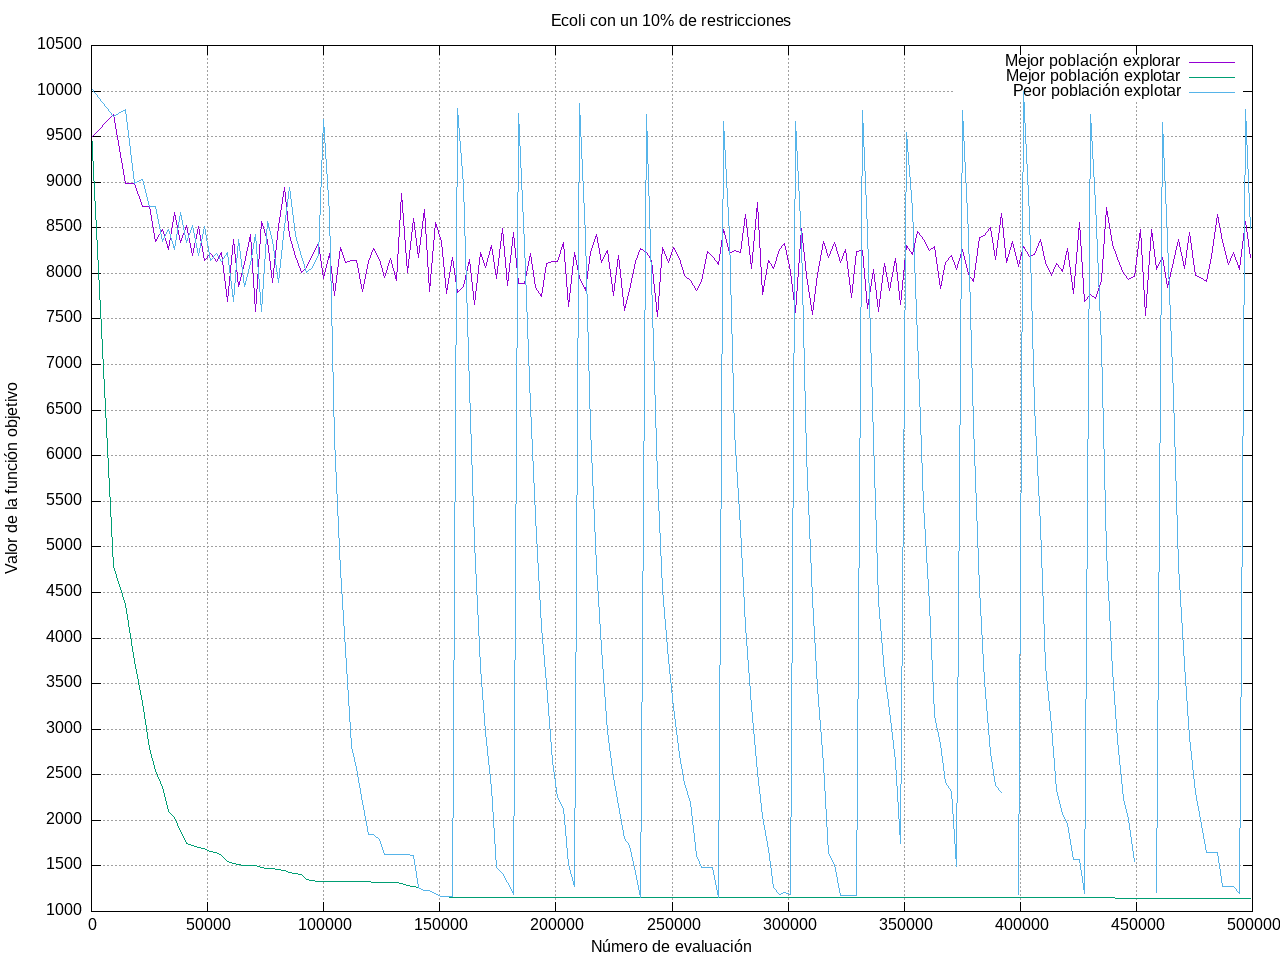
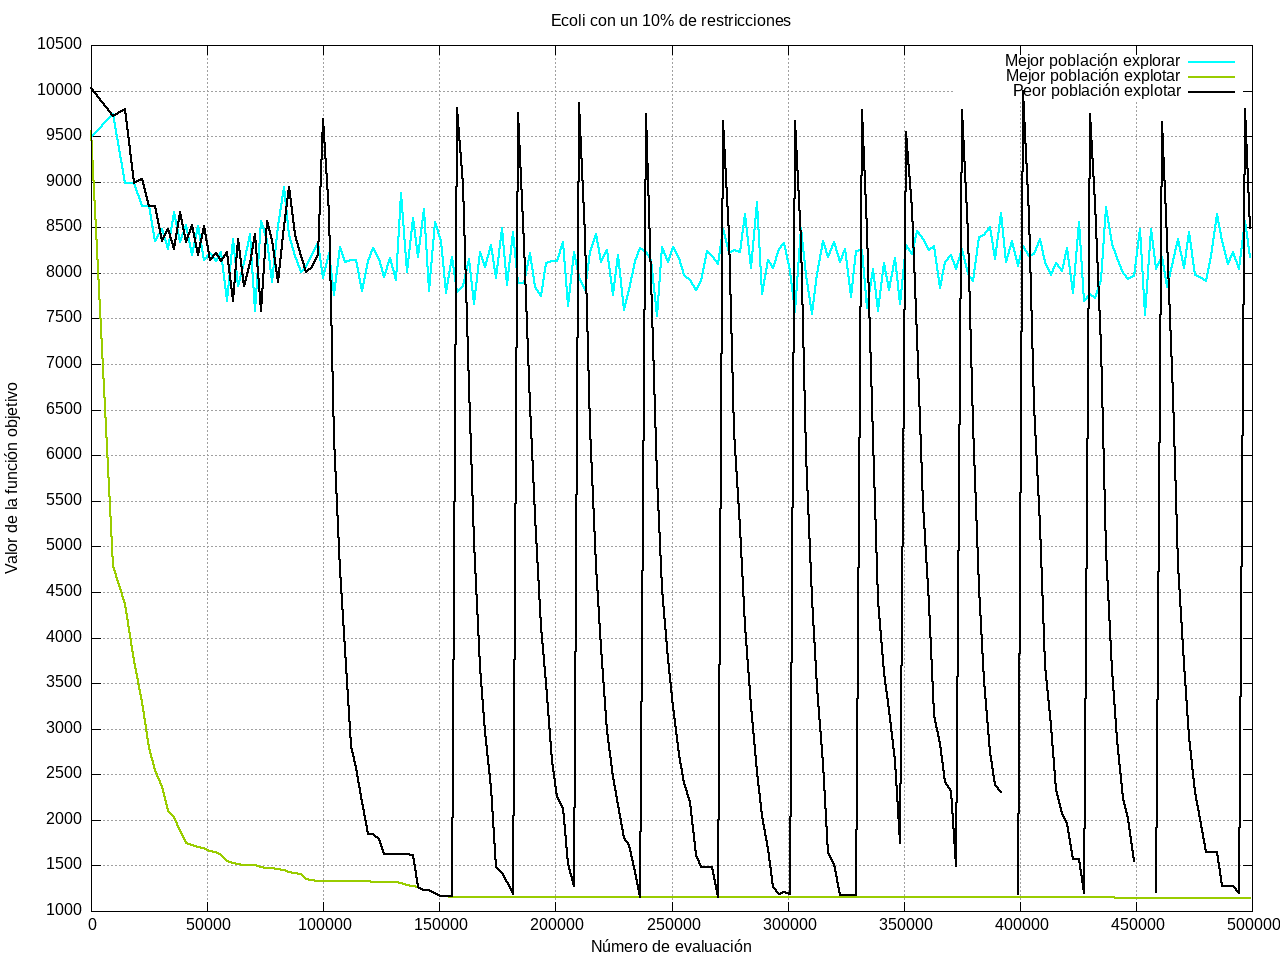
explicamos version final y actualizamos imagen para que se vea mejor

diff --git a/memorias/p4/MH_practica4.tex b/memorias/p4/MH_practica4.tex
@@ -612,11 +612,33 @@ Aun así vemos que esto sigue siendo demasiada explotación, y el algoritmo no s
 
 \subsubsection{Mejora de la implementación y versión final: Ajuste de la convergencia y reinicialización de soluciones estancadas.}
 
+Finalmente, una forma de hacer una mayor convergencia en el algoritmo pero sin que sea tan brusca como la búsqueda local ha sido utilizar la búsqueda local suave vista en la práctica 2 a las mejores soluciones de la población de explotación.
 
+Esta solución ha dado un buen resultado, y además, debido a que una vez se estancaba la mejor solución, rápidamente toda la población de explotación acababa siendo una copia de esta solución he añadido una reinicialización de soluciones, cuando una solución de la población de explotación llega a ser la misma que la mejor solución encontrada, esta se desecha y la reemplazamos por una solución aleatoria. Con estas modificaciones conseguimos los siguientes resultados:
+
+
+\begin{figure}[H]
+	\centering
+	\includegraphics[scale = 0.50]{final_ecoli.png}
+	
+	\caption{Comportamiento de la versión final, con BL suave y reinicialización de soluciones.}
+	\label{fig:final_ecoli}
+\end{figure}
+
+En esta gráfica, un poco distinta de las otras, vemos en verde la mejor solución de la población de explotación, en negro la peor de la población de explotación y en azul la mejor de la población de exploración.
+
+Vemos como al principio del algoritmo, cuando todavía no ha logrado converger, se consigue reducir el valor de la función objetivo gracias al método de acercamiento de soluciones a la mejor, sumado a la exploración que nos da la segunda población, que como vemos, las mejores soluciones de exploración y las peores de explotación se intercambian de forma correcta. Vemos como sobre la evaluación 100.000 se encuentra un mínimo local, la solución se estanca y se reinicializa, de ahí el primer pico que encontramos en la peor solución del conjunto de explotación. Esta reinicialización nos sirve para encontrar un nuevo mínimo más adelante, y a partir de ahí ya con mayor dificultad de encontrar una mejor solución ya que la actual es bastante buena, comienza a verse cada vez más reinicializaciones, fomentando la exploración cuando ya no puede explotar más.
+
+De esta forma hemos conseguido equilibrar tanto la exploración como la explotación y se ha llegado a diseñar una metaheurística que es capaz de cambiar de estrategia dependiendo de la situación de las soluciones a las que llegue.
+
+Esto se ha conseguido ya que tanto cada vez que se cambiaba de mejor solución como en los intercambios de información de las poblaciones, el resto de la población seguía manteniendo información sobre las mejores soluciones antiguas, y esto les llevaba a encontrar nuevas soluciones mejores. Una vez una solución gana peso sobre las demás y hace que todas las otras soluciones se estanquen en esa, se reinicializan con el objetivo de encontrar una solución distinta.
+
+
+\subsection{Parámetros.}
 
 \subsection{Pseudocódigo.}
 
-\subsection{Parámetros escogidos.}
+\subsection{Parámetros escogidos para las ejecuciones.}
 
 
 
